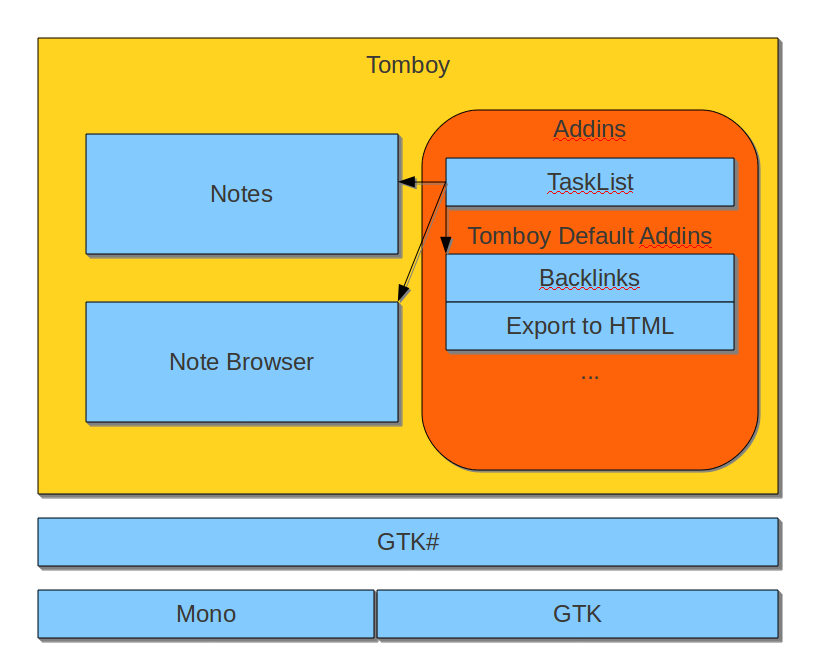
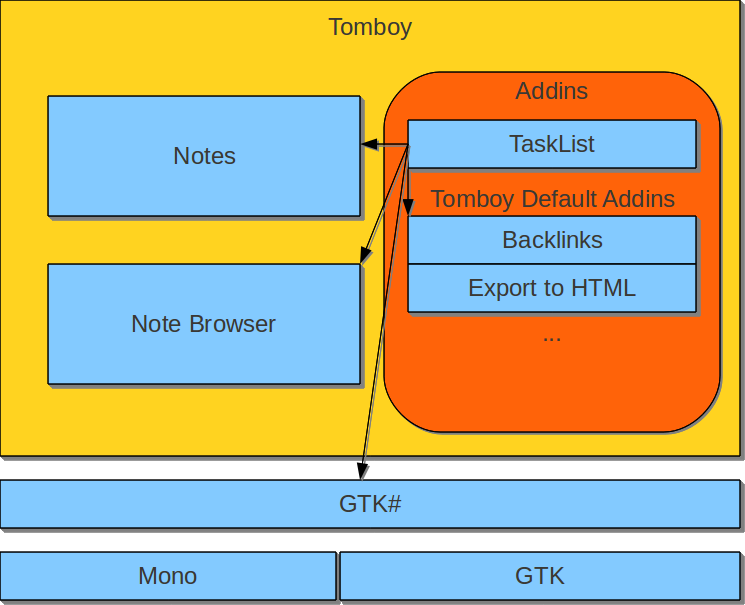
- product perspective diagram: added some arrows, disabled spellcheck - changed the perspective text a bit

diff --git a/doc/description.tex b/doc/description.tex
@@ -18,12 +18,11 @@ Our goal is to finish such a project up to a stable and working solution (in ter
 
   \begin{itemize}
     \item The first one is the obvious user interface that the user sees within Tomboy.
-    \item Then, the representation of data will be done via Tomboy note files. That means, persistent storage of the Tasks must be accomplished as xml files within the Tomboy notes file structure.
-    \item Also, saving and retrieving data (for example, import and export of notes from/to other note taking applications) will be done using XML files.
+    \item The representation of our data will be integrated in Tomboy Note files. That means, persistent storage of the Tasks must be accomplished as XML files using the structures already existing.
+    \item Saving and retrieving data (for example, import and export of notes from/to other note taking applications) will be done using XML.
   \end{itemize}
 
-  Also, for an overwie of the integration of TaskList within the Tomboy/GTK/Mono context, see figure \ref{perspective}.
-
+  Figure \ref{perspective} shows the Product perspective of the TaskList Addin. Since it's really an extension for the Tomboy Application it is placed in Tomboy itself where it will communicate with some of Tomboys internal elements (as shown by arrows). Further the Addin will rely directly on some of the GTK\# Widgets.
   \begin{figure}[h]
     \includegraphics[width=\textwidth]{graphics/product_perspective_diagram.png}
     \caption{TaskList Product Perspective}

diff --git a/doc/introduction.tex b/doc/introduction.tex
@@ -28,6 +28,7 @@ This is how the final result could look like. Figure \ref{gui} is only a draft, 
 	\object{GTK}{GIMP ToolKit}
 	\object{GTK\#}{Gtk Sharp}
 	\object{GUI}{Graphical User Interface}
+	\object{XML}{Extensible Markup Language}
 \end{objects}
 
 
@@ -48,6 +49,7 @@ This is how the final result could look like. Figure \ref{gui} is only a draft, 
 	\object{Task List}{A collection of Tasks that may or may not be related.}
 	\object{Tomboy}{A free and open-source desktop notetaking application written for Unix-like (including Mac OS X) and Microsoft Windows systems. Tomboy is part of GNOME and written in C\# using Gtk\#.}
 	\object{User}{Any Person who uses Tomboy.}
+	\object{Widget}{}
 	\object{.NET Framework}{Microsofts Implementation of the CLI Standard.}
 \end{objects}
 
